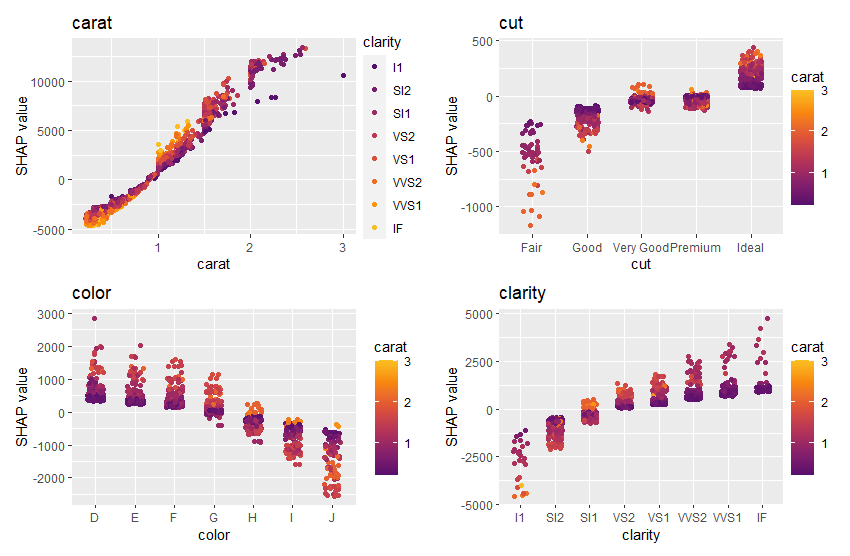
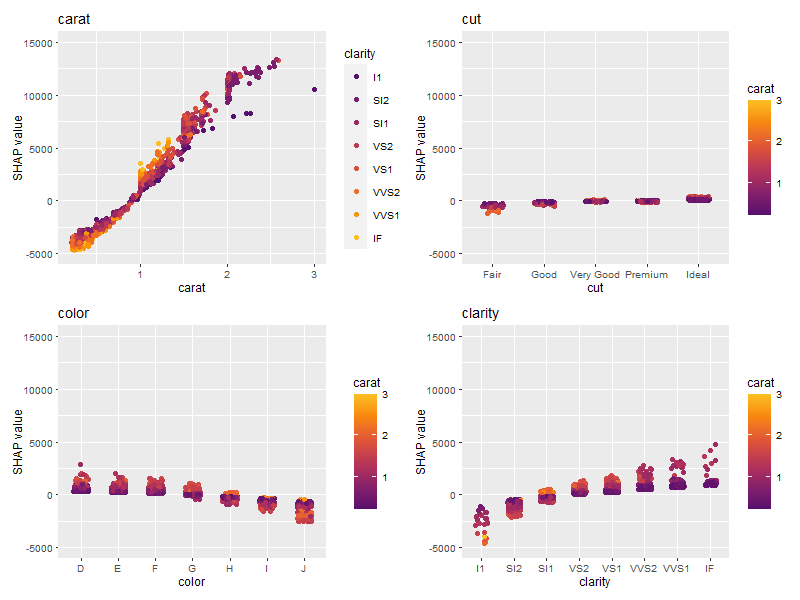
gray image

diff --git a/README.md b/README.md
@@ -158,7 +158,7 @@ Or multiple features together, using {patchwork}:
 library(patchwork)  # We need the & operator
 
 sv_dependence(shp, v = x) &
-  theme_light(base_size = 9) &
+  theme_gray(base_size = 9) &
   ylim(-5000, 15000)
 ```
 
